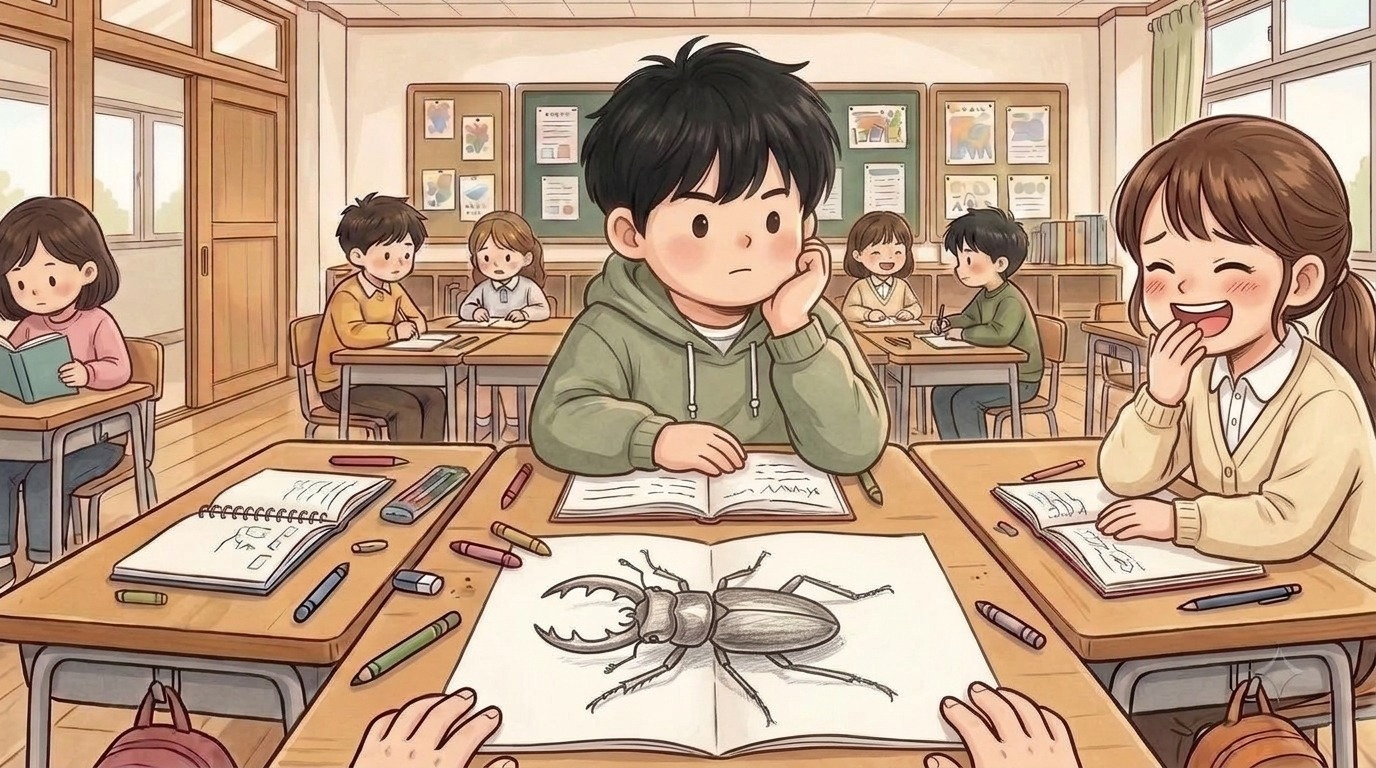
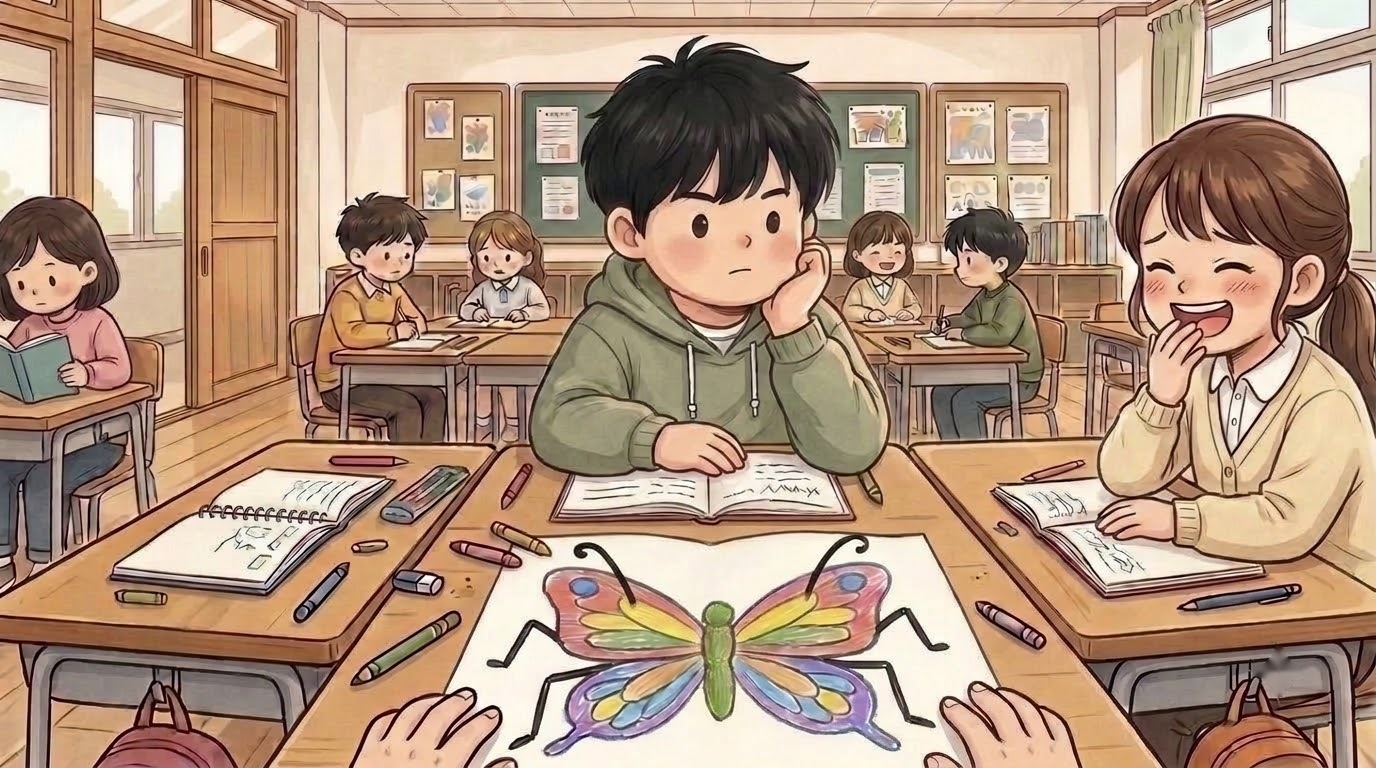
시우 2화 C 선택지 그림: 사슴벌레 → 틀린 크레용 나비(더듬이·다리가 날개에서 나옴, 원본과 같게), 반짝이 지움

diff --git a/index.html b/index.html
@@ -119,14 +119,14 @@ body,button{word-break:keep-all;overflow-wrap:break-word}
 <div id="fader"></div>
 <script>
 // same address, newest version: if the page this phone has kept is older than the one online, fetch the new one and reopen
-const BUILD='1115093450';
+const BUILD='1115115642';
 try{fetch(location.pathname,{cache:'no-store'}).then(r=>r.text()).then(t=>{const m=t.match(/const BUILD='(\d+)'/);if(m&&m[1]!==BUILD&&sessionStorage.getItem('upd')!==m[1]){sessionStorage.setItem('upd',m[1]);fetch(location.pathname,{cache:'reload'}).then(()=>location.reload())}}).catch(()=>{})}catch(e){}
 </script>
-<script src="i18n.js?v=1115093450"></script>
-<script src="i18n_prologue_v2.js?v=1115093450"></script>
-<script src="day2/i18n_engine.js?v=1115093450"></script>
-<script src="day2/data.js?v=1115093450"></script>
-<script src="day3/data.js?v=1115093450"></script>
+<script src="i18n.js?v=1115115642"></script>
+<script src="i18n_prologue_v2.js?v=1115115642"></script>
+<script src="day2/i18n_engine.js?v=1115115642"></script>
+<script src="day2/data.js?v=1115115642"></script>
+<script src="day3/data.js?v=1115115642"></script>
 <script>
 // ---------- data ----------
 const MW=1672,MH=941,KID=180;
@@ -581,37 +581,37 @@ function pickHero(){const m=document.getElementById('modal'),c=document.getEleme
  c.innerHTML=`<h2>${tr('전학생 반장되기')}</h2><p>${tr('한국말이 아직 서툰 전학생,<br>반장 선거에 나가다.')}</p><p style="margin-top:14px">${tr('누구로 할까요?')}</p>${(()=>{const s=loadSave();return s&&s.day>=2&&s.mode===UI+'-'+LANG?`<p><button class="big" id="cont">${tr('{n}일차부터 이어 하기').replace('{n}',s.day)}</button></p>`:''})()}<div class="pick heroes"><button data-h="hero_f"><img src="faces/hero_f_smile.jpg" alt="여자 주인공">${heroName(1)}</button><button data-h="hero_m"><img src="faces/hero_m_smile.jpg" alt="남자 주인공">${heroName(0)}</button></div>`;
  m.classList.add('on');{const cb=document.getElementById('cont');if(cb)cb.onclick=()=>{const s=loadSave();HERO=s.hero;Object.assign(HEART,s.heart||{});(s.found||[]).forEach(k=>FOUND.add(k));HEART_D1={...HEART};chime();(typeof contGame==='function'?contGame(s):startDay(Math.min(s.day,Object.keys(window.D3||{}).length?3:2)))}}c.querySelectorAll('.pick button').forEach(b=>b.onclick=()=>{HERO=b.dataset.h;m.classList.remove('on');chime();bgm('day');load('home_am');say([['nar','','이사 온 다음 날 아침. 아직 풀지 못한 상자들이 쌓여 있다.'],['think','sad','(오늘부터 새 학교야. 여기 말도 아직 서툰데…….)'],['think','smile','({m}한테 인사하고 학교 가야지.)']],morning)})}
 </script>
-<script src="day2/engine.js?v=1115093450"></script>
-<script src="day2/ep_minho.js?v=1115093450"></script>
-<script src="day2/meet.js?v=1115093450"></script>
-<script src="day2/ep_sua.js?v=1115093450"></script>
-<script src="day2/ep_hangyeol.js?v=1115093450"></script>
-<script src="day2/ep_siwoo.js?v=1115093450"></script>
-<script src="day2/ep_haram.js?v=1115093450"></script>
-<script src="day2/ep_jiho.js?v=1115093450"></script>
-<script src="day2/ep_hyeeun.js?v=1115093450"></script>
-<script src="day2/ep_haneul.js?v=1115093450"></script>
-<script src="day2/ep_junho.js?v=1115093450"></script>
-<script src="day2/ep_yuna.js?v=1115093450"></script>
-<script src="day2/ep_yena.js?v=1115093450"></script>
-<script src="day2/ep_haeun.js?v=1115093450"></script>
-<script src="day2/ep_youngmin.js?v=1115093450"></script>
-<script src="day2/ep_seah.js?v=1115093450"></script>
-<script src="day2/ep_jihoon.js?v=1115093450"></script>
-<script src="words_ja_ru.js?v=1115093450"></script>
-<script src="day2/mybag.js?v=1115093450"></script>
-<script src="day2/wordpics.js?v=1115093450"></script>
-<script src="day2/spots.js?v=1115093450"></script>
-<script src="day2/textfit.js?v=1115093450"></script>
-<script src="day2/tester.js?v=1115093450"></script>
-<script src="day2/ux.js?v=1115093450"></script>
-<script src="day2/tapword.js?v=1115093450"></script>
-<script src="day2/review.js?v=1115093450"></script>
-<script src="day2/plane.js?v=1115093450"></script>
-<script src="day2/bubble.js?v=1115093450"></script>
-<script src="day2/ep_ending.js?v=1115093450"></script>
-<script src="day2/ending.js?v=1115093450"></script>
-<script src="day2/stats.js?v=1115093450"></script>
+<script src="day2/engine.js?v=1115115642"></script>
+<script src="day2/ep_minho.js?v=1115115642"></script>
+<script src="day2/meet.js?v=1115115642"></script>
+<script src="day2/ep_sua.js?v=1115115642"></script>
+<script src="day2/ep_hangyeol.js?v=1115115642"></script>
+<script src="day2/ep_siwoo.js?v=1115115642"></script>
+<script src="day2/ep_haram.js?v=1115115642"></script>
+<script src="day2/ep_jiho.js?v=1115115642"></script>
+<script src="day2/ep_hyeeun.js?v=1115115642"></script>
+<script src="day2/ep_haneul.js?v=1115115642"></script>
+<script src="day2/ep_junho.js?v=1115115642"></script>
+<script src="day2/ep_yuna.js?v=1115115642"></script>
+<script src="day2/ep_yena.js?v=1115115642"></script>
+<script src="day2/ep_haeun.js?v=1115115642"></script>
+<script src="day2/ep_youngmin.js?v=1115115642"></script>
+<script src="day2/ep_seah.js?v=1115115642"></script>
+<script src="day2/ep_jihoon.js?v=1115115642"></script>
+<script src="words_ja_ru.js?v=1115115642"></script>
+<script src="day2/mybag.js?v=1115115642"></script>
+<script src="day2/wordpics.js?v=1115115642"></script>
+<script src="day2/spots.js?v=1115115642"></script>
+<script src="day2/textfit.js?v=1115115642"></script>
+<script src="day2/tester.js?v=1115115642"></script>
+<script src="day2/ux.js?v=1115115642"></script>
+<script src="day2/tapword.js?v=1115115642"></script>
+<script src="day2/review.js?v=1115115642"></script>
+<script src="day2/plane.js?v=1115115642"></script>
+<script src="day2/bubble.js?v=1115115642"></script>
+<script src="day2/ep_ending.js?v=1115115642"></script>
+<script src="day2/ending.js?v=1115115642"></script>
+<script src="day2/stats.js?v=1115115642"></script>
 <script>
 // the goal shows big for a few seconds, then folds into a small pill (tap it to open it again)
 {const g=document.getElementById('goal');let t=null;const big=()=>{g.classList.remove('mini');clearTimeout(t);t=setTimeout(()=>g.classList.add('mini'),4000)};
